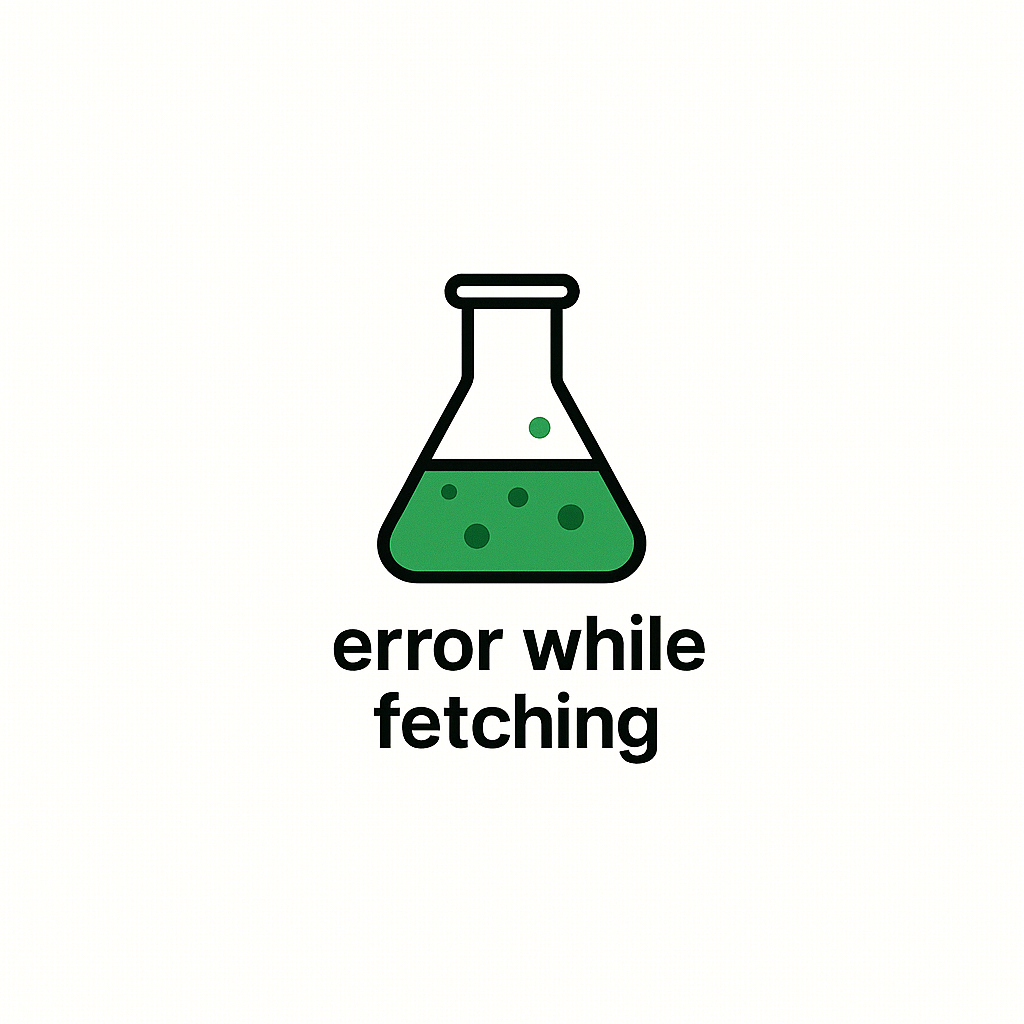
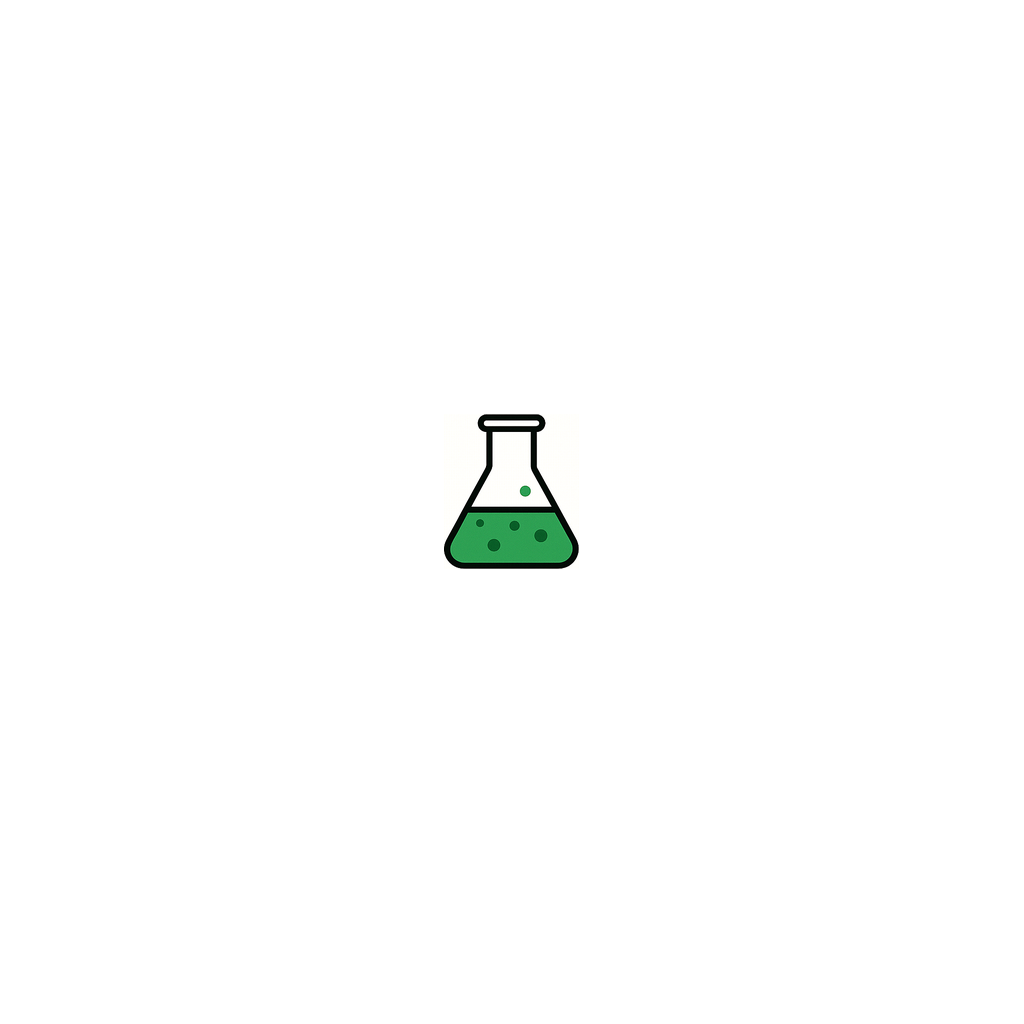
Update README for Lab 6 and enhance Vite configuration for Tauri deployment
- Revised README to reflect the objectives and tasks for Lab 6, including the introduction of PWA, state management with Redux Toolkit, and Tauri integration.
- Updated Vite configuration to use specific IP addresses for API and MinIO services instead of localhost.
- Adjusted Tauri configuration to point to the correct frontend distribution directory.

Changed region(s): [[0.3125, 0.25, 0.6875, 0.75]]

diff --git a/vite.config.ts b/vite.config.ts
@@ -7,8 +7,8 @@ import path from 'path';
 
 // Определяем, работаем ли мы в Docker (проверяем переменную окружения из docker-compose.yml)
 const isDocker = process.env.DOCKER === 'true';
-//const apiHost = isDocker ? 'http://host.docker.internal:8080' : 'http://localhost:8080';
-const minioHost = isDocker ? 'http://host.docker.internal:9000' : 'http://localhost:9000';
+const apiHost = isDocker ? 'http://host.docker.internal:8080' : 'http://192.168.1.4:8080';
+const minioHost = isDocker ? 'http://host.docker.internal:9000' : 'http://192.168.1.4:9000';
 
 export default defineConfig({
   server: {
@@ -18,7 +18,7 @@ export default defineConfig({
     },
     proxy: {
       "/api": {
-        target: "http://192.168.1.4:8080",
+        target: apiHost,
         changeOrigin: true,
       },
       "/img": {

diff --git a/README.md b/README.md
@@ -1,15 +1,15 @@
-#### Лабораторная 5
+#### Лабораторная 6
 
-- **Цель работы**: Разработка базового SPA на React
-- **Порядок показа**: Показать три страницы фронтенда с `mock` без запущенного сервиса. Далее показать страницы фронтенда с бэкендом, показать в `network` адрес `fetch` через `proxy`, названия и адреса из `minio` для изображений. Внести изменения в БД, показать их во фронтенде. Объяснить код компонентов для фильтрации, передаваемые props, хуки, вызовы fetch.
-- **Контрольные вопросы**: react, props и состояние, компонент и элемент, useState и useEffect, жизненный цикл компонента, CORS и обратный прокси, Vite и Babel, BFF и GraphQL, Next.js и SSG, FSD
-- **Диаграмма классов** с детализацией бэкенда и фронтенда: добавить методы авторизации, фронтенд разделить на страницы, добавить у страниц зависимость от API.
-- **Задание**: Разработать три страницы фронтенд приложения на `React`, `TS` и подключить его к веб-сервису
+- **Цель работы**: Внедрение адаптивности и развертывание приложения
+- **Порядок показа**: Открыть `GitHub Pages` с mock на телефоне, сохранить PWA. Открыть PWA, применить фильтрацию услуг, перейти на главную и вернуться, чтобы показать старое значение фильтра. Перейти в адаптивный режим браузера, поменять ширину. Объяснить настройки для размера карточек, количества колонок и тд - показать конкретные значения размера и количества колонок, карточек. На компьютере показать подключение Tauri к бэкенду по IP локальной сети (не `localhost`), сравнить IP сервера из консоли и в коде приложения. Отредактировать услуги в БД и продемонстрировать изменение в Tauri. Настроить `HTTPS`
+- **Контрольные вопросы**: flux, схема redux (store, reducer, dispatch, action), виды нативных приложений (PWA, Tauri и тд), Pages
+- **Deployment диаграмма** все узлы и компоненты системы: фронтенда, web-сервера со статикой, веб-сервиса, базы данных и других хранилищ и тд. Узлы соединить протоколами, компоненты фронтенда и бэкенда поместить в узлах, указать API между ними.
+- **Задание**: Внедрить менеджер состояний для хранения значений фильтров, добавление адаптивности и PWA, создание Tauri и развертывание в `Pages`
 
-Разработать базовый интерфейс приложения на `React` для `гостя`, аналогичный двум страницам из лабораторной работы №1 для просмотра `услуг`, а также сделать `главную` (стартовую) страницу со статическим описанием. При этом на странице списка `услуг` должны быть все необходимые фильтры (по диапазону дат, названию, цене) с фильтрацией на бэкенде. Использовать компоненты `React-Bootstrap`. Для карточек предусмотреть изображение по-умолчанию, если поле в `услуге` пустое.
+Добавление менеджера состояний `Redux Toolkit` для хранения фильтра услуг. Рекомендуется использовать расширение для браузера [redux-devtools](https://chromewebstore.google.com/detail/redux-devtools/lmhkpmbekcpmknklioeibfkpmmfibljd). Необходимо развернуть фронтенд на `GitHub Pages` и добавить возможность работы в режиме `PWA`. Добавить адаптивность для трех страниц приложения.
 
-В приложении должны быть навигационная панель `navbar` для списка базовых страниц, а также самописная навигационная цепочка `breadcrumbs`, где отображается путь от базовой страницы к текущей. В этой лабораторной никакого `Redux`, а `Context` вообще в курсе использовать нельзя.
+Создание простого нативного приложения на `Tauri` для интерфейса гостя (без авторизации и редактирования), состоящий из 3 страниц с фильтрацией и картинками. Подключить приложение к разработанному API через IP адрес в локальной сети (не `localhost`).
 
-Содержимое карточек получать из вашего веб-сервиса. Ajax-запросы написать самостоятельно через `fetch`. Ограничение с `CORS` решить через проксирование `React`. В методах `fetch` предусмотреть получение данных из коллекции с `mock`-объектами при отсутствии доступа к вашему бэкенду.
-
-* [Методические указания](/tutorials/lab5/README.md). Видео мастер-класс [Создание приложения на React](https://vkvideo.ru/video-211704031_456239220)
+* [Адаптивный дизайн и развертывание](/tutorials/pwa/PWA.md) (GitHub Pages, PWA, HTTPS)
+* [Методические указания Redux Toolkit + fetch](/tutorials/redux/redux_toolkit.md)
+* [Методические указания Tauri](/tutorials/tauri/). Видео мастер-классов [Tauri на основе проекта React](https://vk.com/video-211704031_456239168) и [Tauri приложения с нуля](https://vk.com/video-211704031_456239167)
